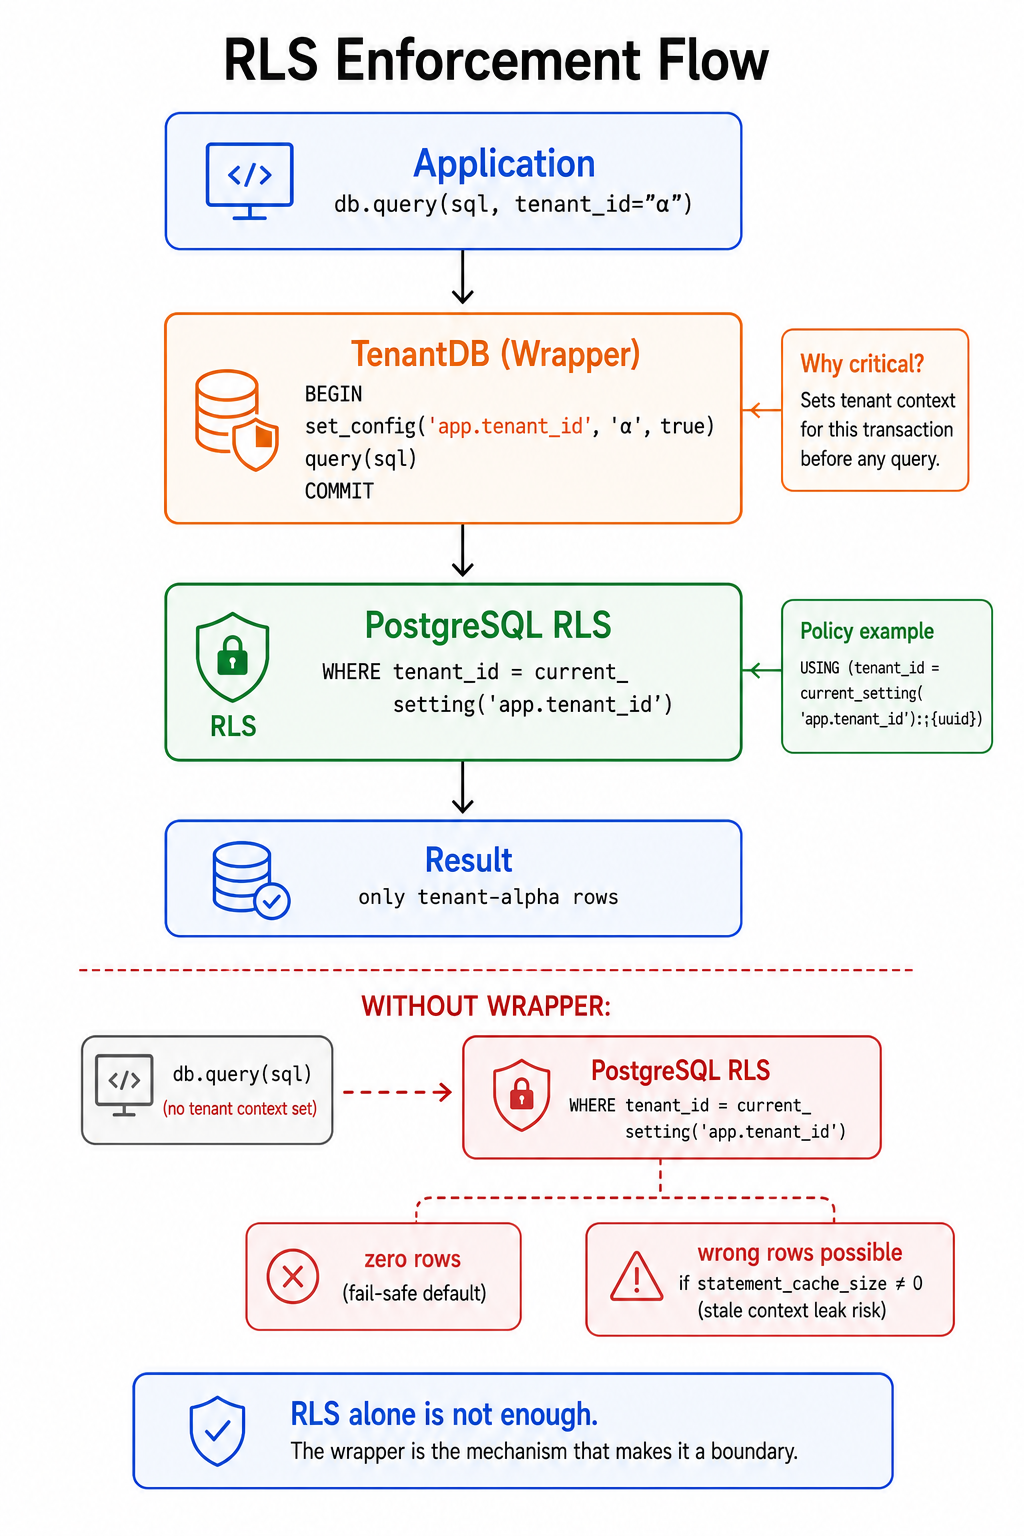
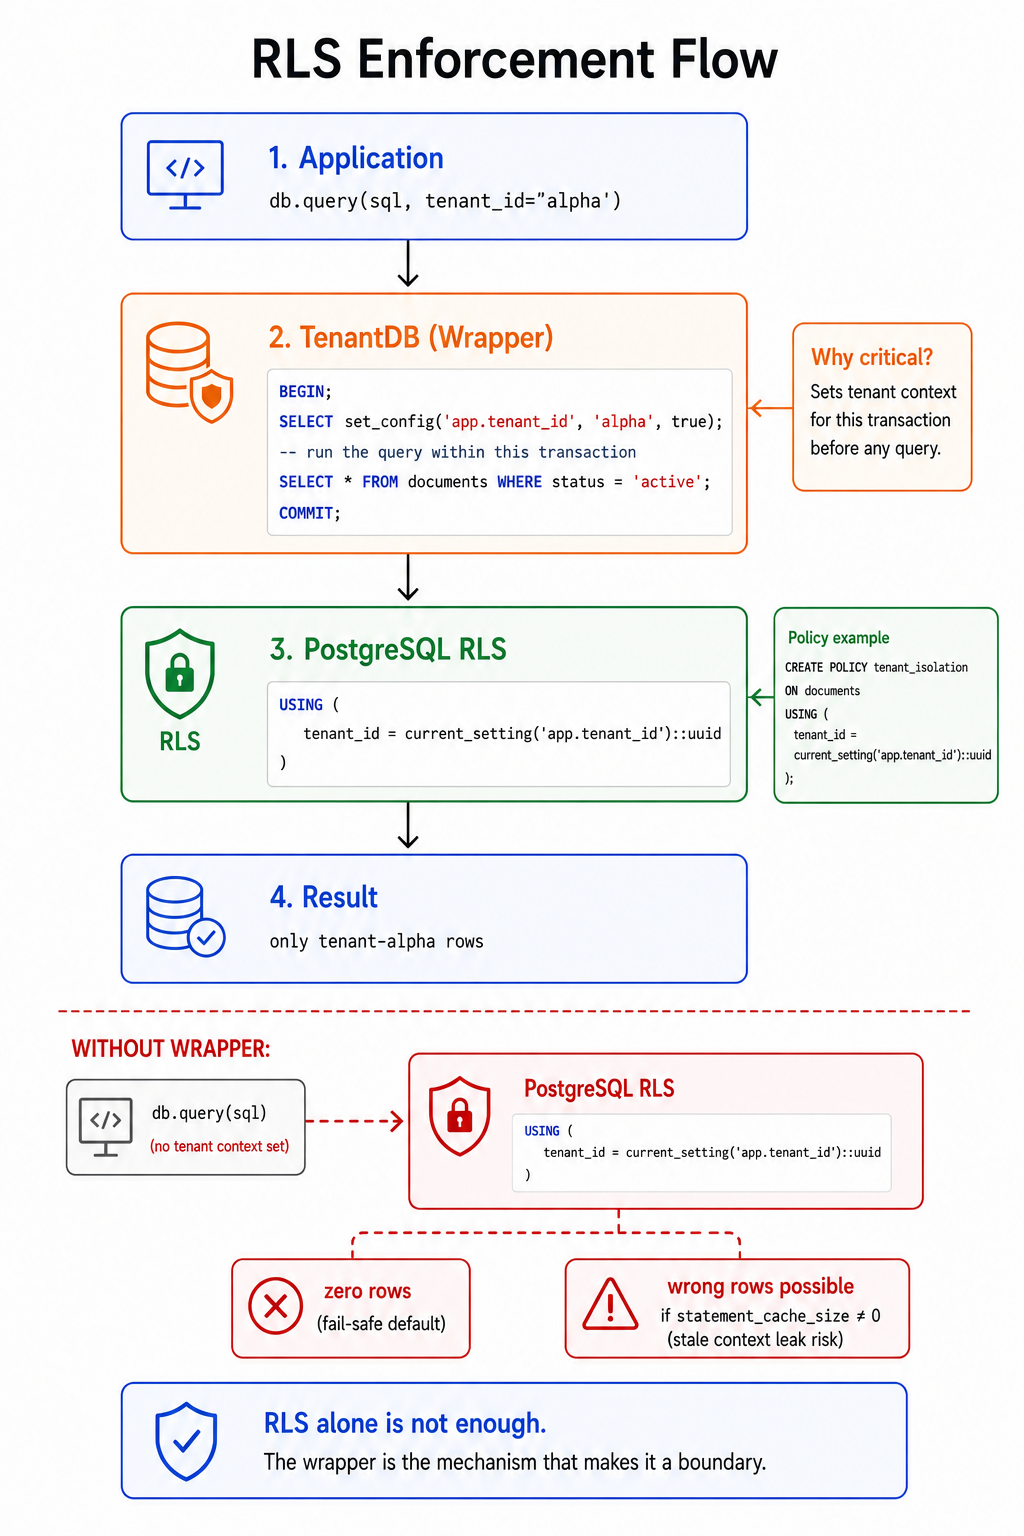
docs: update article on Enterprise AI Harness and enhance diagram for clarity

diff --git a/docs/articles/Enterprise_Graphs_Require_Trust.medium.md b/docs/articles/Enterprise_Graphs_Require_Trust.medium.md
@@ -36,13 +36,19 @@ Components are replaceable. Properties are not. This is why the conversation abo
 
 ---
 
-### Graph Engineering answers a different question
+### Graph Engineering and the harness
 
-Graph Engineering answers a specific question: how should agent graphs be designed?
+Lately the field compares "harness engineering" with "graph engineering" as if they were alternatives. That is a strange comparison. It is like asking whether a city needs roads infrastructure or traffic rules.
 
-Enterprise AI Harness answers a different one: under what architectural conditions can such graphs become trustworthy inside an enterprise?
+The industry is moving toward graph execution as the standard. The [2026 Agentic Coding Trends Report](https://resources.anthropic.com/hubfs/2026%20Agentic%20Coding%20Trends%20Report.pdf) predicts multi-agent systems replacing single-agent workflows: an orchestrator coordinates specialized agents working in parallel, each with dedicated context. One node clarifies. Another implements. A third verifies. A fourth decides.
 
-The two are not competing. They sit at different layers. Graph Engineering is one discipline in a family that advanced AI systems are starting to require: Loop Engineering, Policy Engineering, and others that do not yet have names. Each of them presumes that the execution environment beneath them is already trustworthy. None of them defines or guarantees that trust.
+Graph Engineering designs the traffic plan. A harness is the road beneath it: the asphalt, the cameras, the lights, the signs. Agents are the cars. Where to place the light is a graph decision. The light itself, the camera, the lane divider — that is the harness.
+
+When the infrastructure is complete, the traffic flows. When something is missing (no signs at the merge, no lane markings), agents collide or loop. The graph does not fail because the graph is wrong. It fails because the road does not support the route.
+
+What does the harness guarantee? Four things, in two stages. Two hold at the boundary stage: capabilities are bounded per node, and tenant data cannot cross into another tenant's context. Two arrive with identity: identity survives from initiator to last tool call, and every action is attributable to a principal.
+
+A harness is more than boundaries. A boundary keeps traffic in lanes. Identity tells you who is driving. Policy tells them where they may turn. Audit records every intersection. Boundaries are the foundation. A harness is the full road.
 
 ![Graph Engineering in Harness](../diagrams/Graph%20Engineering%20in%20Harness.png)
 
@@ -51,20 +57,6 @@ The two are not competing. They sit at different layers. Graph Engineering is on
 ### What we expect from a boundary
 
 A boundary is not authentication. Authentication tells you who knocked on the door. A boundary is the guarantee that, whoever knocks, the door is the only way in and the room is the only place they can reach. It holds independently of the application's correctness: if the code is wrong, if a developer forgets a check, if an agent is tricked, the boundary still holds. If a guarantee disappears the moment a developer makes a mistake, it was never a boundary. It was a convention.
-
----
-
-### An Enterprise AI Harness is an architectural execution model
-
-An Enterprise AI Harness is not another AI platform. It is not a framework. It is the full architecture around agents: the runtime they live in, the paths through which input reaches them, and the identity, policy, and audit shell wrapped around all of it. It is what makes their output trustworthy enough to participate in enterprise processes.
-
-The purpose of that shell is not to make agents smarter. The purpose is to make their output usable in environments where being wrong is expensive, and an approval, a change, or a data access has consequences.
-
-What does the shell guarantee? Four things, in two stages.
-
-Two hold at the boundary stage: capabilities are bounded per node, not held globally, and tenant data cannot cross into another tenant's context. Two arrive with identity: identity survives from the initiator to the last tool call, and every action is attributable to a principal.
-
-None of them is a feature you add to an agent. None of them is a prompt.
 
 ---
 
@@ -86,7 +78,7 @@ The rest of this article is supported by a running reference implementation: a l
 
 The implementation is evidence. It is not the claim.
 
-It is also scoped. The public reference implementation demonstrates the boundaries stage: three layers deployed, identity out of scope. The purpose is to show that architectural boundaries can be enforced and evaluated before identity exists — that trustworthy execution begins with boundaries, not with authentication.
+It is also scoped. The public reference implementation demonstrates the boundaries stage: three layers deployed, identity out of scope. The purpose is to show that architectural boundaries can be enforced and evaluated before identity exists: that trustworthy execution begins with boundaries, not with authentication.
 
 What the reference implementation holds today:
 
@@ -94,9 +86,9 @@ What the reference implementation holds today:
 - ✔ Network isolation — NetworkPolicy deny-all by default.
 - ✔ Data isolation — PostgreSQL row-level security, enforced through a wrapper.
 
-The purpose is not to demonstrate Kubernetes. It is to demonstrate that Enterprise AI Harness is implementable — that the boundaries stage of the model already runs.
+The purpose is not to demonstrate Kubernetes. It is to demonstrate that Enterprise AI Harness is implementable: that the boundaries stage of the model already runs.
 
-The complete walkthrough, deployment instructions, and source code are in the public repository: [github.com/vasiache/enterprise-ai-harness — isolation](https://github.com/vasiache/enterprise-ai-harness/tree/main/isolation).
+The complete walkthrough, deployment instructions, and source code are in the public repository: [github.com/vasiache/enterprise-ai-harness/isolation](https://github.com/vasiache/enterprise-ai-harness/tree/main/isolation).
 
 I describe it only enough to validate the architectural ideas. The technologies in it are one way to hold the properties, not the properties themselves. If Kubernetes disappeared tomorrow, the properties would still need to hold. The implementation would change. The architecture would not.
 
@@ -177,9 +169,9 @@ async with conn.transaction():
     return await conn.fetch(sql, *params)
 ```
 
-`set_config(..., true)` is used instead of `SET LOCAL` because `SET` does not take bind parameters — interpolating `tenant_id` into SQL text is an injection even when the value comes from config. The wrapper also disables prepared-statement caching (`statement_cache_size=0`), so RLS does not remain a checkbox on paper.
+`set_config(..., true)` is used instead of `SET LOCAL` because `SET` does not take bind parameters, so interpolating `tenant_id` into SQL text is an injection even when the value comes from config. The wrapper also disables prepared-statement caching (`statement_cache_size=0`), so RLS does not remain a checkbox on paper.
 
-> **Trade-off: a database per tenant vs. shared + RLS.** The strongest isolation is a separate database per tenant: get RLS wrong and there is no leak, because there is no RLS. The cost is N databases, N backups, N connection pools — operational complexity that grows linearly. This reference takes the compromise: one platform database, RLS, the wrapper, and the fail-safe.
+> **Trade-off: a database per tenant vs. shared + RLS.** The strongest isolation is a separate database per tenant: get RLS wrong and there is no leak, because there is no RLS. The cost is N databases, N backups, N connection pools, so operational complexity grows linearly. This reference takes the compromise: one platform database, RLS, the wrapper, and the fail-safe.
 
 ![RLS Enforcement Flow](../diagrams/RLS%20Enforcement%20Flow.png)
 
